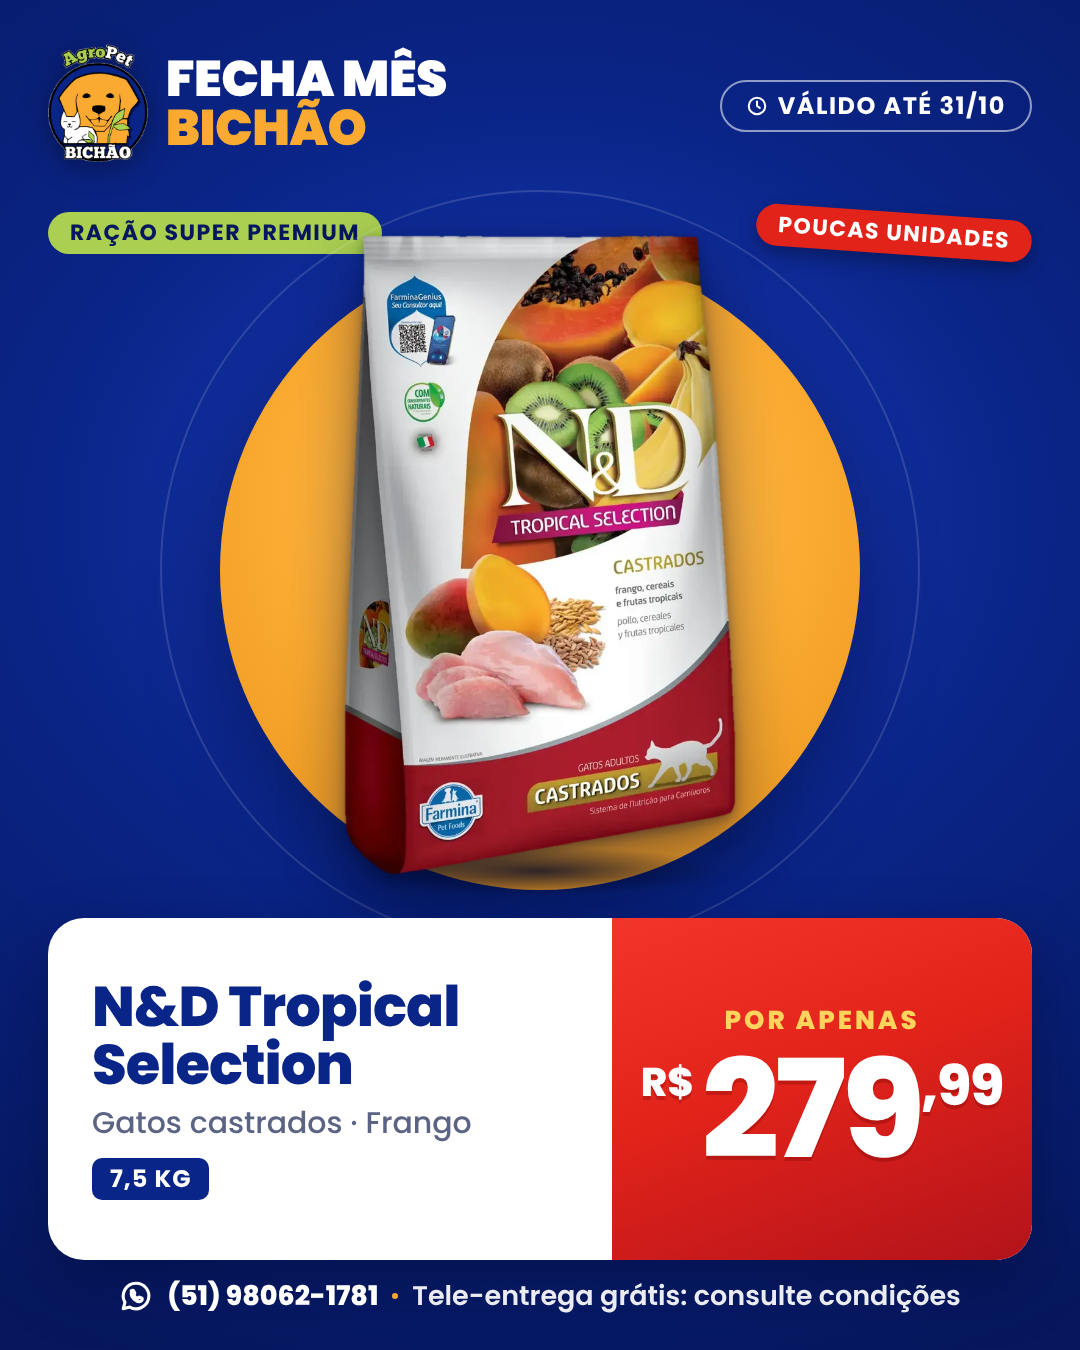
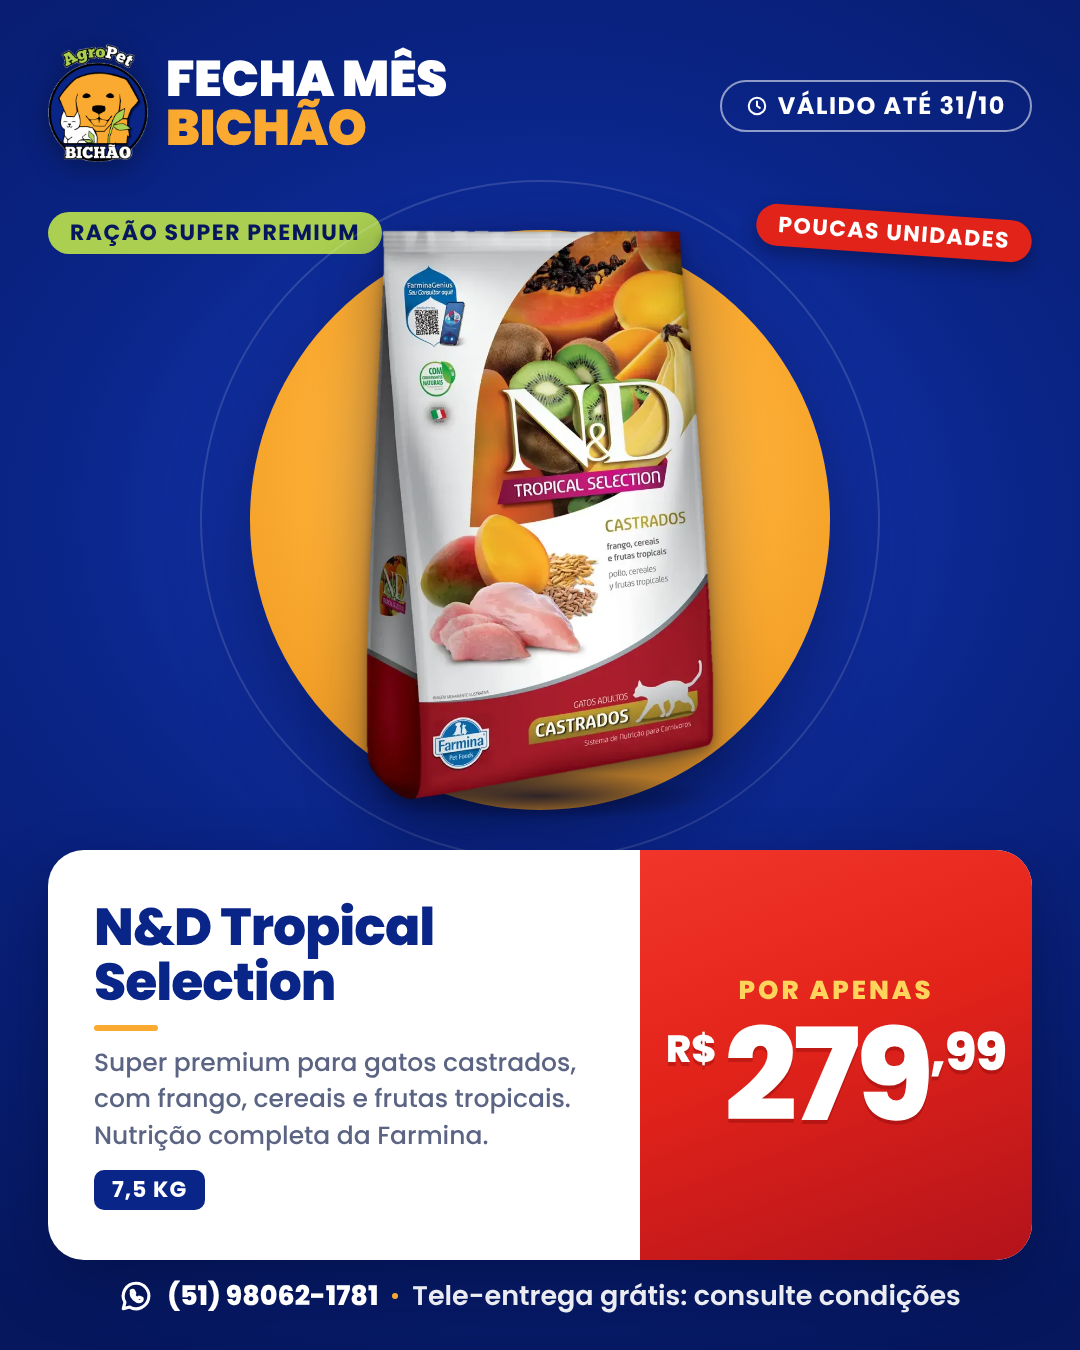
Fecha Mês Bichão: descrições completas e cartão de texto maior
Claude-Session: https://claude.ai/code/session_01Gs9A9MNex2dmEc6dmLnRAu

Changed region(s): [[0.0306, 0.1556, 0.9778, 0.9333], [0.7333, 0.2178, 0.7639, 0.2489], [0.2444, 0.28, 0.275, 0.3111]]

diff --git a/agropet-bichao/tools/gerar_fecha_mes.py b/agropet-bichao/tools/gerar_fecha_mes.py
@@ -88,21 +88,22 @@ body{width:1080px;height:1350px;overflow:hidden;font-family:'Poppins',sans-serif
 /* cartão de oferta */
 .cartao{position:absolute;left:48px;right:48px;background:#fff;border-radius:36px;display:flex;align-items:stretch;
   box-shadow:0 24px 60px rgba(3,10,50,.45);overflow:hidden}
-.cartao .info{flex:1;padding:30px 18px 30px 44px;display:flex;flex-direction:column;justify-content:center;color:var(--tinta)}
-.cartao .marca{font-weight:800;font-size:56px;line-height:1.04;letter-spacing:-1px;color:var(--azul)}
-.cartao .desc{font-weight:500;font-size:30px;line-height:1.28;color:var(--cinza);margin-top:10px}
+.cartao .info{flex:1;padding:34px 30px 34px 46px;display:flex;flex-direction:column;justify-content:center;color:var(--tinta)}
+.cartao .marca{text-wrap:balance;font-weight:800;font-size:52px;line-height:1.05;letter-spacing:-1px;color:var(--azul)}
+.cartao .marca::after{content:"";display:block;width:64px;height:6px;border-radius:3px;background:var(--laranja);margin-top:16px}
+.cartao .desc{font-weight:500;font-size:25px;line-height:1.45;color:var(--cinza);margin-top:14px;text-wrap:pretty}
 .cartao .chips{display:flex;gap:10px;margin-top:16px;flex-wrap:wrap}
-.chip{font-weight:700;font-size:24px;letter-spacing:1px;text-transform:uppercase;padding:9px 18px;border-radius:10px;line-height:1}
+.chip{font-weight:700;font-size:22px;letter-spacing:1px;text-transform:uppercase;padding:9px 18px;border-radius:10px;line-height:1}
 .chip.azul{background:var(--azul);color:#fff}
 .chip.verde{background:var(--verde);color:var(--azul-esc)}
 .chip.vermelho{background:#FDE7E6;color:var(--vermelho)}
-.cartao .preco{flex:none;width:420px;background:linear-gradient(160deg,#F2352B 0%,var(--vermelho) 45%,#B3131B 100%);
+.cartao .preco{flex:none;width:392px;background:linear-gradient(160deg,#F2352B 0%,var(--vermelho) 45%,#B3131B 100%);
   display:flex;flex-direction:column;justify-content:center;align-items:center;padding:20px 14px;color:#fff}
 .preco .rot{font-weight:800;font-size:26px;letter-spacing:3px;text-transform:uppercase;color:#FFD45C}
 .preco .val{display:flex;align-items:flex-start;font-weight:800;line-height:1;margin-top:2px;letter-spacing:-4px;text-shadow:0 4px 0 rgba(90,0,0,.25)}
-.preco .rs{font-size:40px;margin-top:20px;margin-right:8px;letter-spacing:0}
-.preco .int{font-size:136px}
-.preco .cent{font-size:56px;margin-top:16px;letter-spacing:-1px}
+.preco .rs{font-size:38px;margin-top:18px;margin-right:8px;letter-spacing:0}
+.preco .int{font-size:128px}
+.preco .cent{font-size:52px;margin-top:14px;letter-spacing:-1px}
 
 .rodape{position:absolute;left:48px;right:48px;bottom:34px;display:flex;align-items:center;justify-content:center;gap:14px;
   font-weight:600;font-size:27px;color:rgba(255,255,255,.92)}
@@ -143,13 +144,13 @@ def produto(n, total, p):
   </div>
   <div class="abs" style="left:48px;top:212px"><span class="pill verde">{p["cat"]}</span></div>
 
-  <div class="palco anel" style="top:190px;width:760px;height:760px"></div>
-  <div class="palco disco" style="top:250px;width:640px;height:640px"></div>
-  <div class="prod" style="top:{875 - p.get("h", 640)}px;width:{p.get("w", 520)}px;height:{p.get("h", 640)}px">
+  <div class="palco anel" style="top:180px;width:680px;height:680px"></div>
+  <div class="palco disco" style="top:230px;width:580px;height:580px"></div>
+  <div class="prod" style="top:{800 - p.get("h", 570)}px;width:{p.get("w", 480)}px;height:{p.get("h", 570)}px">
     <img src="{foto(p["slug"])}" alt="{p["brand"]}"></div>
   <div class="abs" style="right:48px;top:212px;z-index:3"><span class="pill vermelho" style="font-size:22px;transform:rotate(4deg);box-shadow:0 8px 18px rgba(0,0,0,.3)">Poucas unidades</span></div>
 
-  <div class="cartao" style="top:918px;height:342px">
+  <div class="cartao" style="top:850px;height:410px">
     <div class="info"><div class="marca">{p["brand"]}</div><div class="desc">{p["desc"]}</div><div class="chips">{chips}</div></div>
     {preco(p["price"], p.get("rotulo", "Por apenas"))}
   </div>
@@ -225,41 +226,41 @@ def cta(total):
 ANTI = "Antipulgas e carrapatos"
 CAES = [
     dict(slug="seresto-p", cat=ANTI, size="Tamanho P", brand="Coleira Seresto P",
-         desc="Cães e gatos até 8 kg · 8 meses de proteção", price="149,99", w=600, h=600),
+         desc="Elimina pulgas e carrapatos em cães e pulgas em gatos de até 8 kg. Até 8 meses de proteção, sem cheiro e resistente à água.", price="149,99", w=560, h=560),
     dict(slug="seresto-g", cat=ANTI, size="Tamanho G", brand="Coleira Seresto G",
-         desc="Cães acima de 8 kg · 8 meses de proteção", price="189,99", w=600, h=600),
+         desc="Elimina pulgas e carrapatos em cães acima de 8 kg. Até 8 meses de proteção, sem cheiro e resistente à água.", price="189,99", w=560, h=560),
     dict(slug="nexgard-4-10kg", cat=ANTI, size="4,1 a 10 kg", brand="NexGard",
-         desc="Tablete mastigável para cães", extra="Combo 3 unidades", price="189,99",
-         rotulo="Combo por", w=620, h=520),
+         desc="Tablete mastigável sabor carne que mata pulgas e carrapatos. Ação rápida e proteção por 30 dias a cada dose.", extra="Combo 3 unidades", price="189,99",
+         rotulo="Combo por", w=580, h=480),
     dict(slug="origens-shih-tzu", cat="Ração para cães", size="10,1 kg", brand="Origens",
-         desc="Shih Tzu e Lhasa Apso · Cães adultos", price="109,99"),
+         desc="Ração Premium Especial para Shih Tzu e Lhasa Apso adultos, com fórmula pensada para as necessidades dessas raças.", price="109,99"),
     dict(slug="guabi-natural-caes-medias", cat="Ração para cães", size="12 kg", brand="Guabi Natural",
-         desc="Cães adultos · Raças médias", price="199,99"),
+         desc="Ração natural para cães adultos de raças médias. Sem corantes e aromas artificiais, conservada com antioxidantes naturais.", price="199,99"),
     dict(slug="bionatural-junior-grandes", cat="Ração super premium", size="15 kg", brand="Bionatural Prime Júnior",
-         desc="Raças grandes e gigantes", price="259,99"),
+         desc="Super premium natural para filhotes de raças grandes e gigantes, com DHA, colágeno, glucosamina e condroitina. Sabor cordeiro.", price="259,99"),
     dict(slug="bionatural-sensitive-peixe", cat="Ração super premium", size="15 kg", brand="Bionatural Sensitive",
-         desc="Cães adultos · Raças pequenas · Peixe", price="279,99"),
+         desc="Super premium natural para cães adultos de raças pequenas com pele sensível. Zero corantes, aromatizantes e transgênicos.", price="279,99"),
     dict(slug="premier-diabetes-caes", cat="Nutrição clínica", size="10,1 kg", brand="Premier Diabetes",
-         desc="Cães de porte médio e grande", price="319,99"),
+         desc="Coadjuvante no tratamento do diabetes em cães de porte médio e grande, filhotes e adultos. Use com orientação veterinária.", price="319,99"),
 ]
 GATOS = [
     dict(slug="seresto-p", cat=ANTI, size="Tamanho P", brand="Coleira Seresto P",
-         desc="Cães e gatos até 8 kg · 8 meses de proteção", price="149,99", w=600, h=600),
+         desc="Elimina pulgas e carrapatos em cães e pulgas em gatos de até 8 kg. Até 8 meses de proteção, sem cheiro e resistente à água.", price="149,99", w=560, h=560),
     dict(slug="areia-bento", cat="Higiene", size="4 kg cada", brand="Areia Bento Mandioca",
-         desc="Granulado higiênico de mandioca e minerais", extra="Combo 4 unidades", price="99,99",
-         rotulo="Combo por", w=560),
+         desc="Granulado higiênico super premium de mandioca e minerais, com alta absorção e controle de odores.", extra="Combo 4 unidades", price="99,99",
+         rotulo="Combo por", w=500),
     dict(slug="frost-gatos-filhotes", cat="Ração para gatos", size="7,5 kg", brand="Frost Kitten",
-         desc="Gatos filhotes · Super premium", price="169,99"),
+         desc="Super premium para gatos filhotes até 12 meses, com DHA para o desenvolvimento e grão mini.", price="169,99"),
     dict(slug="guabi-natural-gatos", cat="Ração para gatos", size="7,5 kg", brand="Guabi Natural",
-         desc="Gatos adultos", price="189,99"),
+         desc="Ração natural para gatos adultos. Sem corantes e aromas artificiais, conservada com antioxidantes naturais.", price="189,99"),
     dict(slug="premier-nattu-gatos-castrados", cat="Ração para gatos", size="7,5 kg", brand="Premier Nattu",
-         desc="Gatos castrados · Abóbora", price="199,99"),
+         desc="Para gatos castrados, com frango, abóbora, brócolis, quinoa e blueberry. Fórmula com antioxidantes naturais.", price="199,99"),
     dict(slug="nd-tropical-gatos", cat="Ração super premium", size="7,5 kg", brand="N&amp;D Tropical Selection",
-         desc="Gatos castrados · Frango", price="279,99"),
+         desc="Super premium para gatos castrados, com frango, cereais e frutas tropicais. Nutrição completa da Farmina.", price="279,99"),
     dict(slug="premier-urinario-gatos", cat="Nutrição clínica", size="7,5 kg", brand="Premier Urinário",
-         desc="Gatos adultos", price="299,99"),
+         desc="Coadjuvante no tratamento de cálculos urinários de estruvita em gatos adultos. Use com orientação veterinária.", price="299,99"),
     dict(slug="nd-pumpkin-gatos", cat="Ração super premium", size="7,5 kg", brand="N&amp;D Pumpkin",
-         desc="Gatos adultos · Frango e romã", price="419,99"),
+         desc="Super premium sem cereais para gatos adultos, com frango, abóbora e romã. Nutrição natural da Farmina.", price="419,99"),
 ]
 
 
